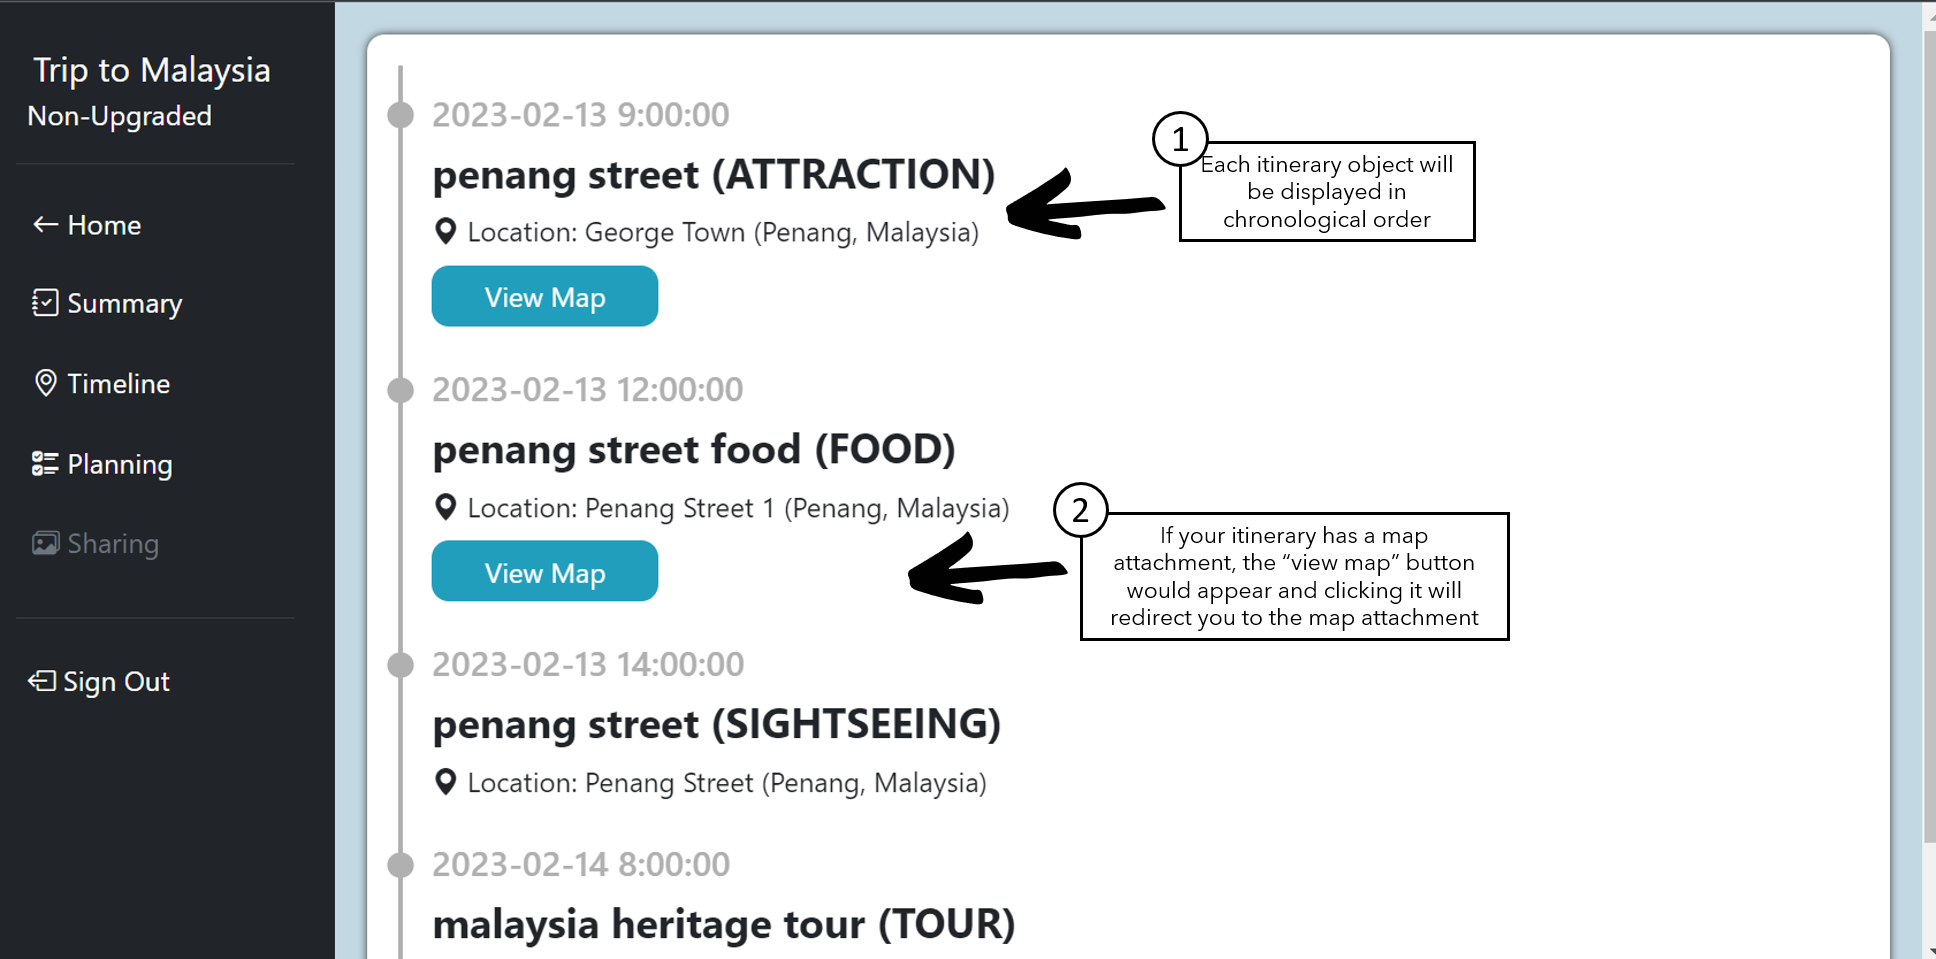
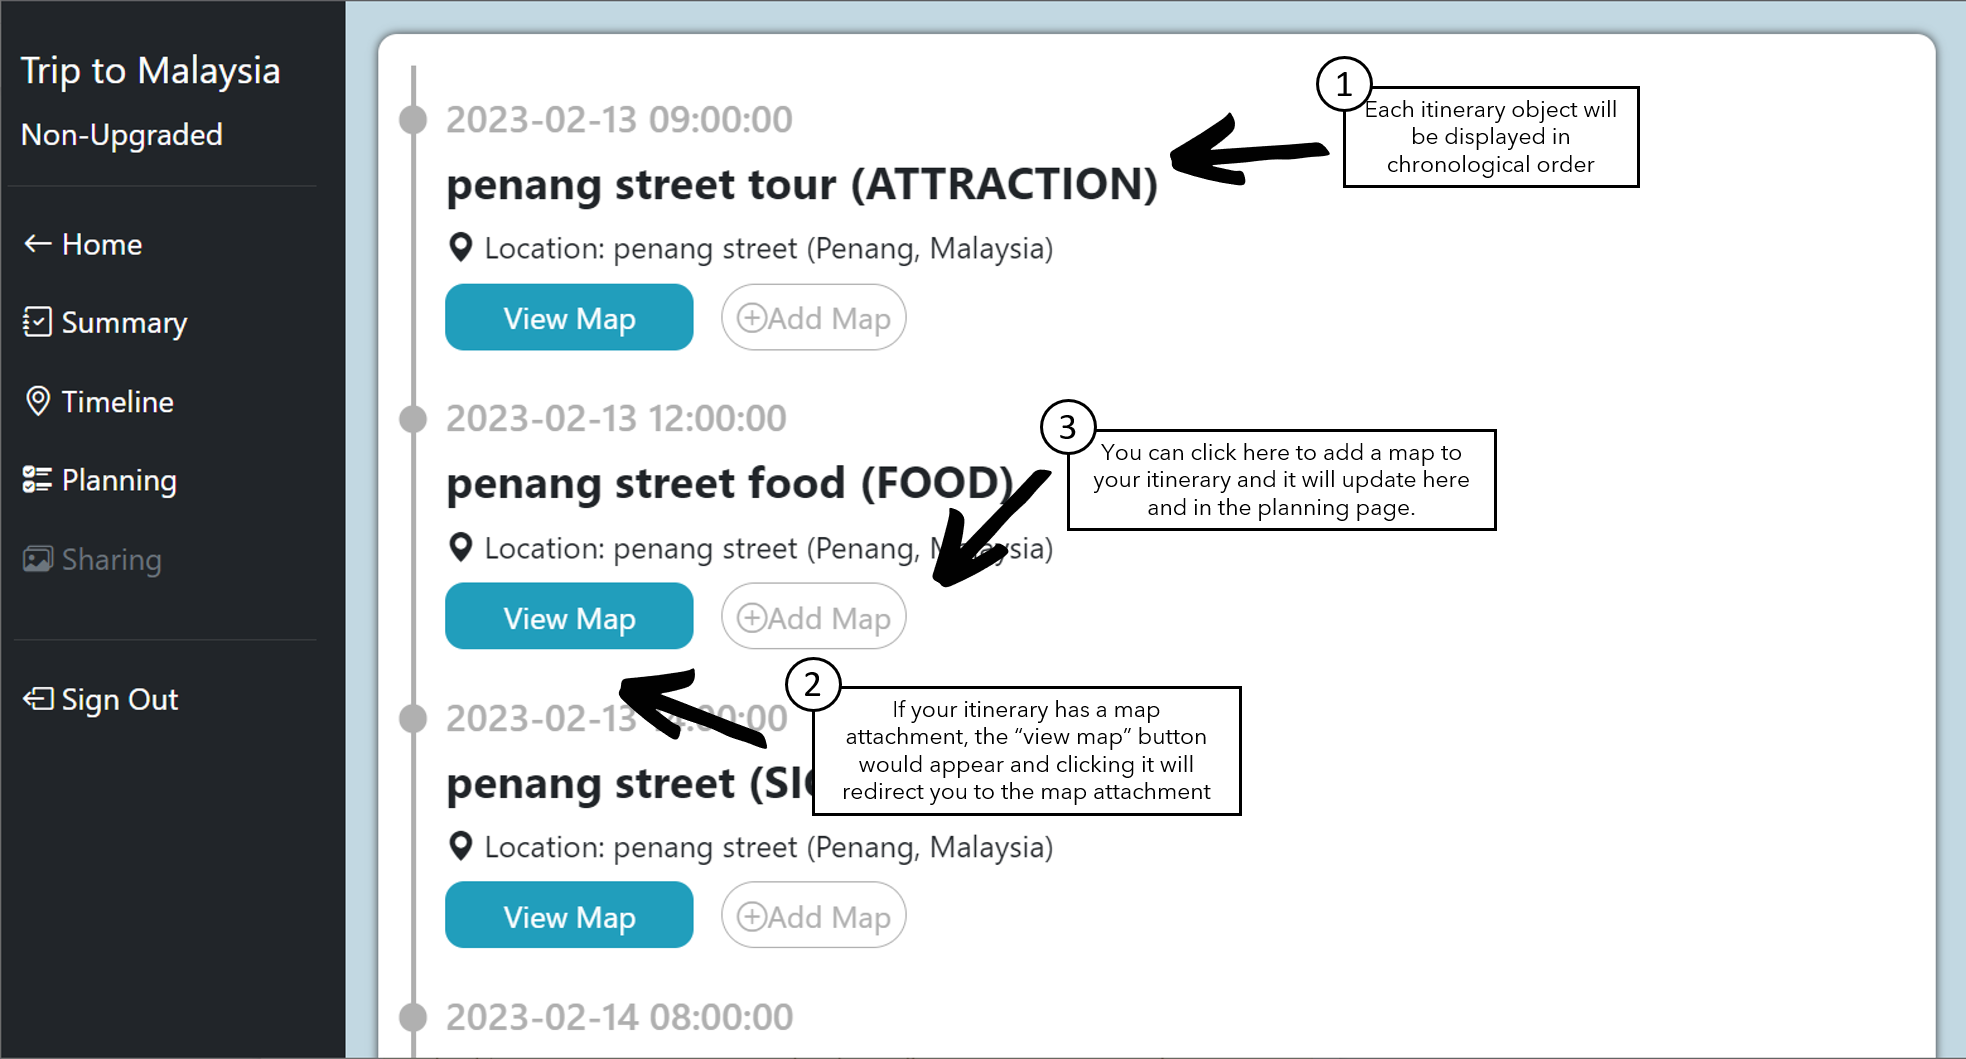
minor updates

diff --git a/templates/login/vacations/itinerary/timeline-component.html b/templates/login/vacations/itinerary/timeline-component.html
@@ -78,6 +78,27 @@
 </script>
 
 <div class="container" style="margin:0%; padding: 0%;">
+
+      {% with successes = get_flashed_messages(category_filter=["success"]) %}
+    {% if successes %}
+      <div class="alert alert-success" role="alert">
+        {% for message in successes %}
+           {{ message }}
+        {% endfor %}
+      </div>
+    {% endif %}
+  {% endwith %}
+
+  {% with errors = get_flashed_messages(category_filter=["error"]) %}
+    {% if errors %}
+      <div class="alert alert-danger" role="alert">
+         {% for message in errors %}
+          {{ message }}
+            {% endfor %}
+      </div>
+    {% endif %}
+  {% endwith %}
+
     {% for i in vacation_timeline %}
 
     <div class="timeline-object" style="border-left: 3px solid #b0b0b0; height: auto; padding-bottom: 1%;">
@@ -101,7 +122,7 @@
                 {% endif %}
             {% endfor %}
             <span>
-                    <button class="btn btn-outline-secondary" style="border-radius: 10px; margin-top: 1%;" type="button" onclick="open_pop_up({{loop.index}})" id="addMapButton{{loop.index}}">
+                    <button class="btn" style="border-radius: 50px; margin-top: 1%; background-color:transparent; color:#b0b0b0; padding-left: 1%; padding-right:1%; border-color:#b0b0b0; " type="button" onclick="open_pop_up({{loop.index}})" id="addMapButton{{loop.index}}">
                         <i class="bi bi-plus-circle"></i>Add Map
                     </button>
             </span>

diff --git a/templates/n-login/about-us.html b/templates/n-login/about-us.html
@@ -36,12 +36,14 @@
         <div class="accordion-item">
           <h2 class="accordion-header" id="headingTwo">
             <button class="accordion-button collapsed" type="button" data-bs-toggle="collapse" data-bs-target="#collapseTwo" aria-expanded="false" aria-controls="collapseTwo">
-              Work in Progress
+              How do I use this?
             </button>
           </h2>
           <div id="collapseTwo" class="accordion-collapse collapse" aria-labelledby="headingTwo" data-bs-parent="#accordionExample">
             <div class="accordion-body">
-              Stay tuned for more coming up!
+              For a guide on how to login, refer to the tutorial page! 
+              <br>
+              For a guide on how to use the logged account, a separate detailed tutorial is provided after you login.
             </div>
           </div>
         </div>
@@ -53,7 +55,7 @@
           </h2>
           <div id="collapseThree" class="accordion-collapse collapse" aria-labelledby="headingThree" data-bs-parent="#accordionExample">
             <div class="accordion-body">
-              Hi! My name is Teoh Yu Xin from NUS High School and this website is a Project of mine.
+              Hi! My name is Teoh Yu Xin from NUS High School and feel free to explore this website!
             </div>
           </div>
         </div>

diff --git a/static/css/n-login-style.css b/static/css/n-login-style.css
@@ -27,7 +27,7 @@ Red
 .btn{padding: 5px 30px 5px 30px; margin-right: 10px;}
 
 .home-container{
-    padding-top: 15%;
+    padding-top: 18%;
     padding-left: 10%;
     width: 100%;
 }

diff --git a/README.md b/README.md
@@ -38,3 +38,10 @@ Note: Do not modify the file structure.
 - (000000010,352534534534)
 
 Note: Only First 5 Vacations (Vacations with Vacation IDs 000000001 to 000000010) are fully populated, First 10 Vacations are partially populated with Data.
+
+The list of populated vacations are:
+- Trip to Malaysia
+- Trip to Japan
+- Trip to Germany
+- Trip to USA
+- Trip to Switzerland
